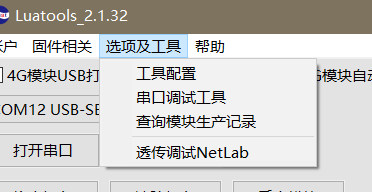
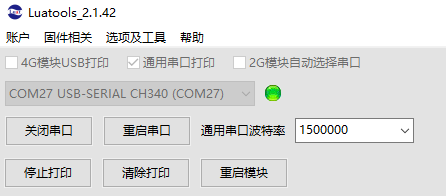
add:更新烧录教程

diff --git a/boardGuide/flash.md b/boardGuide/flash.md
@@ -14,13 +14,13 @@
 
 建议新建一个Luatools文件夹，将exe文件放入其中后，再打开exe文件
 
-选择`选项及工具`--`工具配置`
+luatos-soc请勾选通用串口打印
 
 ![](img/90162500_1631695006.png)
 
-在`uart`选项卡，设置波特率为芯片专属的烧录波特率（如：Air101使用的是921600）
+修改通用串口波特率，设置波特率为芯片专属的烧录波特率（如：Air101/103 使用的是921600 Air105是1500000）
 
-如果是第一批开发板第一次使用官方开发板，有可能会提示未激活，建议点击`账户`--`登录`按提示操作即可，用户名为购买人手机号，密码默认八个8，后面的开发板出厂已经激活，不再需要激活了
+如果是第一批Air101开发板第一次使用官方开发板，有可能会提示未激活，建议点击`账户`--`登录`按提示操作即可，用户名为购买人手机号，密码默认八个8，后面的开发板出厂已经激活，不再需要激活了
 
 [详细激活教程](https://doc.openluat.com/article/3608)
 
@@ -66,6 +66,6 @@ Luatools工具也自动下载了正式版本的一些实例脚本可以在`resou
 
 如果没有打开串口，点击`打开串口`即可查看日志
 
-如果还没反应，可以试试点击`重启串口`
+如果还没反应，检查通用串口打印是否勾选， 重新选择串口打开，或者试试点击`重启串口`
 
 ![](img/28614300_1631695832.png)
